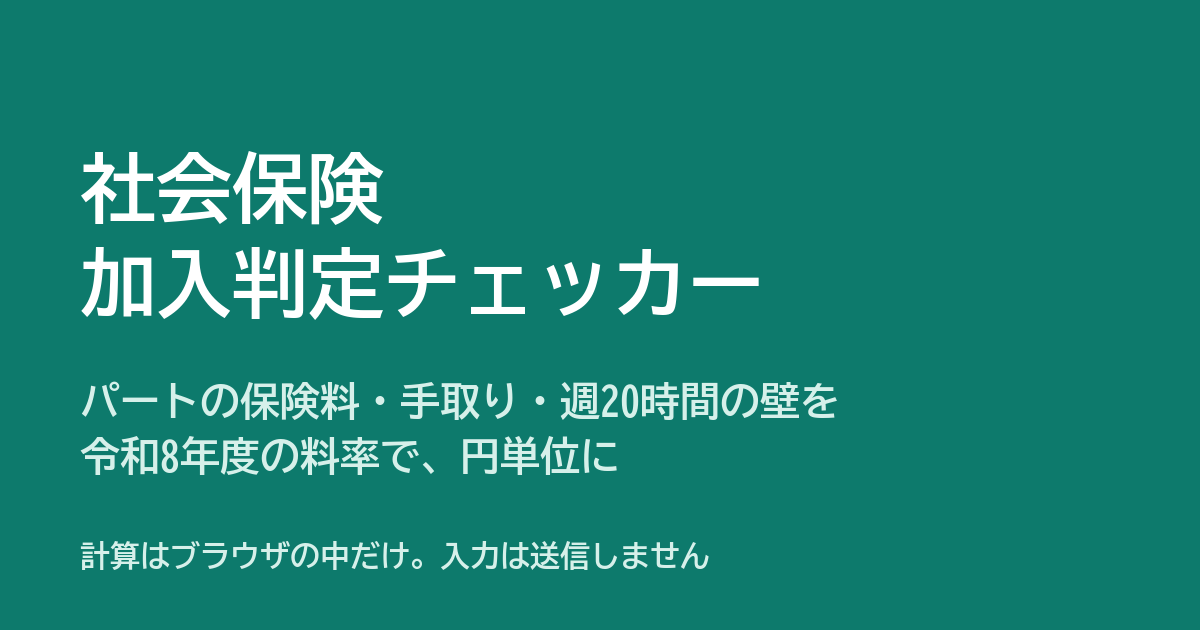
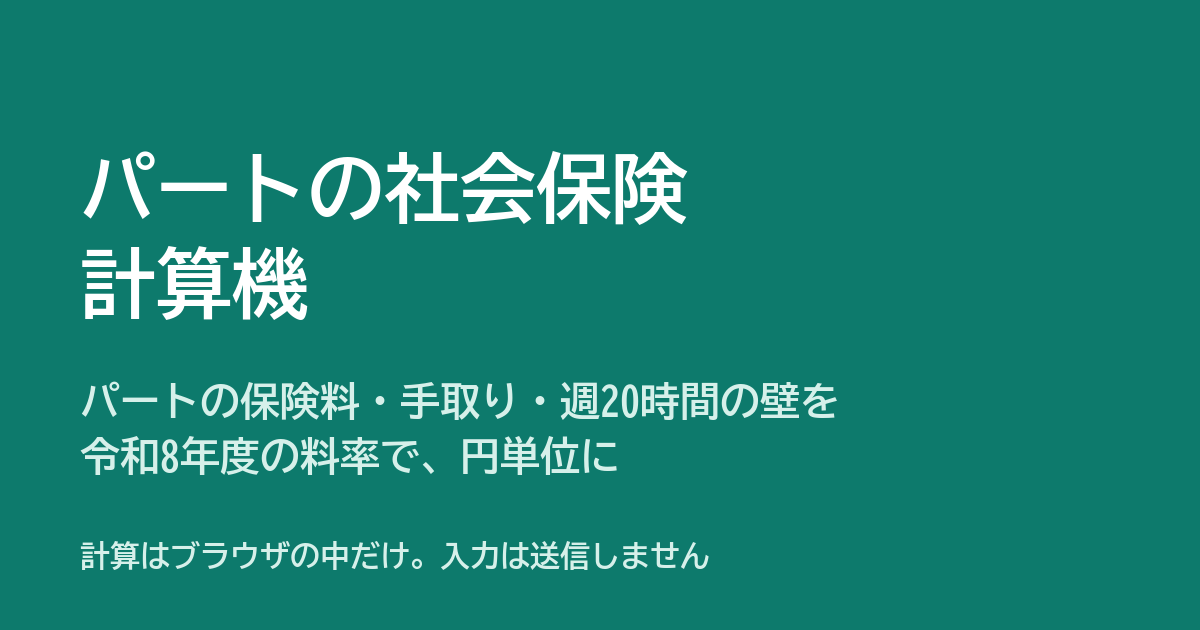
shaho-tekiyo: 年収別の手取り早見表・FAQ 4問を追加、サイト名を「パートの社会保険 計算機」に
Google の検索候補で多い「パート 年収 手取り 表」「130万の壁 月いくら」「交通費」
「ダブルワーク」「加入したくない」に受け皿を作る。サイト名も検索される言葉に寄せた。
影響範囲: dailyquarry-home と kabu-agari-ranking はリンク先の表示名だけ変更。

Changed region(s): [[0.0617, 0.2413, 0.5858, 0.3619], [0.0617, 0.3921, 0.6475, 0.5127]]

diff --git a/projects/shaho-tekiyo/templates/nenshu.html b/projects/shaho-tekiyo/templates/nenshu.html
@@ -1,0 +1,96 @@
+{% extends "base.html" %}
+{% block title %}パートの年収別 手取り早見表｜年収106万・130万・150万で社会保険に入るといくら残る？（{{ era }}）{% endblock %}
+{% block description %}パート・アルバイトの年収90万〜200万円の手取りを一覧に。勤務先の社会保険に入る場合と、扶養内で入らない場合の手取り（年額）を{{ era }}の料率で円単位に比べます。130万円の壁は月いくらかも。{% endblock %}
+{% block breadcrumb %}
+<nav class="crumbs" aria-label="パンくずリスト">
+  <a href="{{ base_url }}index.html">計算機</a>
+  <span>›</span>
+  <span aria-current="page">年収別の手取り</span>
+</nav>
+{% endblock %}
+{% block content %}
+{% set r130 = rows|selectattr("man", "equalto", 130)|first %}
+{% set r120 = rows|selectattr("man", "equalto", 120)|first %}
+<h1>パートの年収別 手取り早見表</h1>
+<p class="updated">{{ era }}の料率（協会けんぽ・東京）で計算</p>
+
+<p>
+  パート・アルバイトの年収ごとに、<strong>勤務先の社会保険に入った場合</strong>と、<strong>扶養内で入らない場合</strong>の手取り（1年分）を並べました。
+  たとえば年収120万円なら、社会保険に入ると手取りは約{{ "{:,}".format(r120.net_in) }}円、入らなければ約{{ "{:,}".format(r120.net_out) }}円です。
+</p>
+
+<div class="table-wrap">
+<table class="plain num">
+  <thead>
+    <tr><th>年収</th><th>月あたり</th><th>社会保険に入る<span class="sub">手取り（年）</span></th><th>扶養内で入らない<span class="sub">手取り（年）</span></th></tr>
+  </thead>
+  <tbody>
+    {% for r in rows %}
+    <tr{% if r.man in (106, 130) %} class="current"{% endif %}>
+      <th><a href="{{ base_url }}getsushu/{{ r.near }}man.html">{{ r.man }}万円</a></th>
+      <td>{{ "{:,}".format(r.monthly) }}円</td>
+      <td>{{ "{:,}".format(r.net_in) }}円</td>
+      <td>{% if r.net_out is not none %}{{ "{:,}".format(r.net_out) }}円{% else %}<span class="sub">扶養から外れる</span>{% endif %}</td>
+    </tr>
+    {% endfor %}
+  </tbody>
+</table>
+</div>
+<p class="hint">
+  賞与なし・毎月同じ額・東京の会社・39歳以下・扶養している家族0人の目安です。
+  「社会保険に入る」は健康保険・子ども・子育て支援金・厚生年金・雇用保険の保険料と所得税を引いた額、
+  「扶養内で入らない」は週20時間未満で働き、所得税だけが引かれる場合の額です。
+  所得税は毎月の天引き額×12（年末調整の前）で、<strong>住民税は含みません</strong>。年収を押すと、近い月収の内訳が見られます。
+</p>
+
+<h2 id="breakdown">引かれる額の内訳（社会保険に入る場合）</h2>
+<div class="table-wrap">
+<table class="plain num">
+  <thead><tr><th>年収</th><th>社会保険料</th><th>雇用保険料</th><th>所得税</th><th>手取り</th></tr></thead>
+  <tbody>
+    {% for r in rows %}
+    <tr><th>{{ r.man }}万円</th><td>{{ "{:,}".format(r.social) }}円</td><td>{{ "{:,}".format(r.koyo) }}円</td><td>{{ "{:,}".format(r.tax_in) }}円</td><td>{{ "{:,}".format(r.net_in) }}円</td></tr>
+    {% endfor %}
+  </tbody>
+</table>
+</div>
+
+<h2 id="kabe-106">年収106万円の壁は2026年10月に無くなる</h2>
+<p>
+  「106万円の壁」は、勤務先の社会保険に入る条件のひとつ「月の賃金8.8万円以上」を年収に直した額です。
+  この条件は<strong>2026年10月1日に無くなり</strong>、従業員51人以上の会社で週20時間以上働けば（学生でなく、2か月を超えて働く見込みがある場合）、年収にかかわらず加入します。
+  つまり、年収106万円未満に抑えても、週20時間以上なら社会保険料はかかります。
+  加入するかどうかを分けるのは、これからは年収ではなく<a href="{{ base_url }}kabe/index.html">週20時間</a>です。
+</p>
+
+<h2 id="kabe-130">年収130万円の壁は月いくら？</h2>
+<p>
+  「130万円の壁」は、配偶者や親の健康保険の扶養に入っていられるかの基準です。月に直すと<strong>108,334円</strong>（130万円÷12）で、
+  月にこれ以上になる見込みだと扶養から外れます。勤務先の社会保険に入らない場合は、自分で国民年金（月{{ "{:,}".format(kokumin) }}円）と
+  国民健康保険（額は市区町村で違う）を払うことになります。
+</p>
+<ul>
+  <li>通勤手当（交通費）も年収に含めて判定します（106万円の壁の「月8.8万円」では含めませんでした）。</li>
+  <li>2026年4月からは、労働条件通知書などで決まっている賃金から見込む年収で判定し、<strong>残業代は含めません</strong>。</li>
+  <li>19歳以上23歳未満の人（配偶者を除く）は、2025年10月から基準が<strong>年収150万円未満</strong>に上がっています。</li>
+</ul>
+<p class="hint">
+  出典: <a href="https://www.nenkin.go.jp/oshirase/taisetu/2025/202512/1225.html" rel="nofollow noopener" target="_blank">日本年金機構「労働契約内容による年間収入が基準額未満である場合の被扶養者の認定における年間収入の取り扱いについて」</a>、
+  <a href="https://www.nenkin.go.jp/oshirase/taisetu/2025/202508/0819.html" rel="nofollow noopener" target="_blank">日本年金機構「19歳以上23歳未満の方の被扶養者認定における年間収入要件が変わります」</a>。
+  健康保険組合によって扱いが違うことがあるので、扶養に入っている健康保険にも確かめてください。
+</p>
+
+<h2 id="loss">社会保険に入ると損？</h2>
+<p>
+  年収130万円の場合、社会保険に入ると1年で約{{ "{:,}".format(r130.social) }}円の保険料を払います。その分、
+  将来の年金（厚生年金）が上乗せされ、病気やけがで休んだときの傷病手当金、出産手当金が受けられるようになります。
+  目先の手取りだけで比べず、<a href="{{ base_url }}getsushu/{{ r130.near }}man.html">月収{{ r130.near }}万円のページ</a>で受けられるものの額も見てください。
+</p>
+
+<p class="hint">
+  料率の出典: <a href="{{ source.page }}" rel="nofollow noopener" target="_blank">{{ source.name }}「{{ source.title }}」</a>。計算のしかたは<a href="{{ base_url }}keisan.html">計算方法と出典</a>に。
+  自分の時給・時間・都道府県で計算するなら<a href="{{ base_url }}index.html">計算機</a>へ。
+</p>
+
+{% include "_cards.html" %}
+{% endblock %}

diff --git a/projects/shaho-tekiyo/templates/faq.html b/projects/shaho-tekiyo/templates/faq.html
@@ -1,6 +1,6 @@
 {% extends "base.html" %}
 {% block title %}パートの社会保険 よくある質問｜106万円の壁の撤廃・130万円の壁・週20時間{% endblock %}
-{% block description %}2026年10月に何が変わるか、106万円の壁と130万円の壁の違い、週20時間ちょうどでも入るか、学生や小さい会社はどうかなど、パートの社会保険でよくある質問に答えます。{% endblock %}
+{% block description %}2026年10月に何が変わるか、106万円の壁と130万円の壁の違い、交通費や残業代は含むか、ダブルワークは合計するか、週20時間ちょうどでも入るかなど、パートの社会保険でよくある質問に答えます。{% endblock %}
 {% block breadcrumb %}
 <nav class="crumbs" aria-label="パンくずリスト">
   <a href="{{ base_url }}index.html">計算機</a>
@@ -50,6 +50,37 @@
   別の制度・別の基準です。年収130万円以上になると、勤務先の従業員数などに関わらず被扶養者から外れ、
   自分で国民健康保険・国民年金などに加入する必要が出てきます。この基準自体は今回の改正の対象ではありません。
   両者を混同しないようご注意ください（詳しくは配偶者の勤務先の健康保険組合・協会けんぽにご確認ください）。
+</p>
+
+<h2 id="q-commute">交通費（通勤手当）や残業代は含める？</h2>
+<p>
+  壁によって違います。勤務先の社会保険に入るかどうかの「月8.8万円」（106万円の壁。2026年10月に撤廃）は、
+  <strong>通勤手当・残業代・賞与を含めない</strong>額で見ていました。
+  一方、扶養に入っていられるかの「130万円」は、<strong>通勤手当も含めた</strong>年収の見込みで判定します。
+  残業代は、2026年4月から、労働条件通知書などで決まっている賃金から見込む年収で判定する形になり、含めなくなりました。
+</p>
+<p class="hint">出典: <a href="https://www.nenkin.go.jp/oshirase/taisetu/2025/202512/1225.html" rel="nofollow noopener" target="_blank">日本年金機構「労働契約内容による年間収入が基準額未満である場合の被扶養者の認定における年間収入の取り扱いについて」</a></p>
+
+<h2 id="q-130-month">130万円の壁は月いくら？ 学生は？</h2>
+<p>
+  130万円÷12で、<strong>月108,334円</strong>以上になる見込みだと扶養から外れます。
+  ただし19歳以上23歳未満の人（配偶者を除く）は、2025年10月から基準が<strong>年収150万円未満</strong>（月125,000円）に上がっています。
+  年収ごとの手取りは<a href="{{ base_url }}nenshu.html">年収別の手取り早見表</a>にまとめています。
+</p>
+<p class="hint">出典: <a href="https://www.nenkin.go.jp/oshirase/taisetu/2025/202508/0819.html" rel="nofollow noopener" target="_blank">日本年金機構「19歳以上23歳未満の方の被扶養者認定における年間収入要件が変わります」</a></p>
+
+<h2 id="q-double">ダブルワーク（掛け持ち）は時間を合計する？</h2>
+<p>
+  合計しません。週20時間などの条件は、<strong>勤め先ごとに</strong>見ます。
+  たとえば2つの店で週15時間ずつ（計30時間）働いていても、どちらの店でも週20時間に届かなければ、どちらの社会保険にも入りません。
+  片方で条件を満たせば、その勤め先で加入します。両方で満たす場合は手続きが別にあるので、勤務先か年金事務所に確かめてください。
+</p>
+
+<h2 id="q-refuse">条件に当たっても、入らないことはできる？</h2>
+<p>
+  できません。条件（週20時間以上・会社の人数など）を満たせば、本人の希望にかかわらず加入します。
+  入りたくない場合は、週の所定労働時間を20時間未満にするなど、条件そのものが変わる働き方にするしかありません。
+  週19時間と20時間で手取りがどう変わるかは<a href="{{ base_url }}kabe/index.html">週20時間の壁</a>で見られます。
 </p>
 
 <h2 id="q-student">学生は社会保険に入らなくていい？</h2>

diff --git a/projects/shaho-tekiyo/templates/base.html b/projects/shaho-tekiyo/templates/base.html
@@ -5,10 +5,10 @@
 <meta name="viewport" content="width=device-width, initial-scale=1.0">
 <meta name="color-scheme" content="light dark">
 <meta name="google-site-verification" content="{{ SEARCH_CONSOLE_TOKEN }}" />
-<title>{% block title %}社会保険 加入判定チェッカー{% endblock %}</title>
+<title>{% block title %}パートの社会保険 計算{% endblock %}</title>
 <meta name="description" content="{% block description %}パート・アルバイトの社会保険（健康保険・厚生年金）の加入対象かどうかを、週の労働時間・月収・勤務先の人数から判定します。2026年10月からの適用拡大に対応。{% endblock %}">
 <meta property="og:type" content="website">
-<meta property="og:site_name" content="社会保険 加入判定チェッカー">
+<meta property="og:site_name" content="パートの社会保険 計算機">
 <meta property="og:title" content="{{ self.title() }}">
 <meta property="og:description" content="{{ self.description() }}">
 <meta property="og:url" content="{{ canonical }}">
@@ -368,7 +368,7 @@
 <script async src="https://pagead2.googlesyndication.com/pagead/js/adsbygoogle.js?client={{ ADSENSE_CLIENT }}" crossorigin="anonymous"></script>
 {% endif %}
 <script type="application/ld+json">
-{"@context":"https://schema.org","@type":"WebSite","name":"社会保険 加入判定チェッカー","url":"{{ SITE_URL }}/","inLanguage":"ja"}
+{"@context":"https://schema.org","@type":"WebSite","name":"パートの社会保険 計算機","url":"{{ SITE_URL }}/","inLanguage":"ja"}
 </script>
 {% block structured_data %}{% endblock %}
 <!-- Cloudflare Web Analytics --><script type='module' src='https://static.cloudflareinsights.com/beacon.min.js' data-cf-beacon='{"token": "c8d25daf2f614e8c8b4e20694bacc1f8"}'></script><!-- End Cloudflare Web Analytics -->
@@ -377,10 +377,11 @@
 <a class="skip-link" href="#main">本文へスキップ</a>
 <header class="site-header">
   <div class="inner">
-    <a class="logo" href="{{ base_url }}index.html">社会保険 加入判定チェッカー</a>
+    <a class="logo" href="{{ base_url }}index.html">パートの社会保険 計算機</a>
     <nav>
       <a href="{{ base_url }}index.html">計算機</a>
       <a href="{{ base_url }}getsushu/index.html">月収別の保険料</a>
+      <a href="{{ base_url }}nenshu.html">年収別の手取り</a>
       <a href="{{ base_url }}kabe/index.html">週20時間の壁</a>
       <a href="{{ base_url }}year/index.html">年次の変化</a>
       <a href="{{ base_url }}faq.html">よくある質問</a>
@@ -403,8 +404,9 @@
 <footer>
   <div class="footer-group">
     <strong>使う</strong>
-    <a href="{{ base_url }}index.html">加入判定チェッカー</a>
+    <a href="{{ base_url }}index.html">計算機</a>
     <a href="{{ base_url }}getsushu/index.html">月収別の保険料</a>
+    <a href="{{ base_url }}nenshu.html">年収別の手取り</a>
     <a href="{{ base_url }}kabe/index.html">週20時間の壁</a>
     <a href="{{ base_url }}year/index.html">年次の変化を見る</a>
   </div>

diff --git a/projects/shaho-tekiyo/templates/_cards.html b/projects/shaho-tekiyo/templates/_cards.html
@@ -9,6 +9,10 @@
     <svg viewBox="0 0 40 40" aria-hidden="true"><rect class="ico-bg" width="40" height="40" rx="10"/><circle class="ico-fg" cx="20" cy="20" r="11"/><path class="ico-fg" d="M15 14l5 7 5-7M20 21v8M15.5 22h9M15.5 25.5h9"/></svg>
     <div><strong>月収別の保険料</strong><span>8万〜25万円の早見表</span></div>
   </a>
+  <a class="card-link" href="{{ base_url }}nenshu.html">
+    <svg viewBox="0 0 40 40" aria-hidden="true"><rect class="ico-bg" width="40" height="40" rx="10"/><rect class="ico-fg" x="10" y="10" width="20" height="20" rx="3"/><path class="ico-fg" d="M10 16h20M10 22h20M17 10v20"/></svg>
+    <div><strong>年収別の手取り</strong><span>90万〜200万円の一覧表</span></div>
+  </a>
   <a class="card-link" href="{{ base_url }}kabe/index.html">
     <svg viewBox="0 0 40 40" aria-hidden="true"><rect class="ico-bg" width="40" height="40" rx="10"/><circle class="ico-fg" cx="20" cy="20" r="11"/><path class="ico-fg" d="M20 13v7l5 3"/></svg>
     <div><strong>週20時間の壁</strong><span>手取りが減る分と戻る時間</span></div>

diff --git a/projects/shaho-tekiyo/templates/404.html b/projects/shaho-tekiyo/templates/404.html
@@ -1,11 +1,11 @@
 {% extends "base.html" %}
-{% block title %}ページが見つかりません｜社会保険 加入判定チェッカー{% endblock %}
+{% block title %}ページが見つかりません｜パートの社会保険 計算機{% endblock %}
 {% block description %}お探しのページは見つかりませんでした。{% endblock %}
 {% block content %}
 <h1>ページが見つかりません</h1>
 <p>お探しのページは移動したか、もともと存在しません。</p>
 <ul>
-  <li><a href="{{ base_url }}index.html">加入判定チェッカー</a></li>
+  <li><a href="{{ base_url }}index.html">計算機</a></li>
   <li><a href="{{ base_url }}year/index.html">年次の変化を見る</a></li>
   <li><a href="{{ base_url }}faq.html">よくある質問</a></li>
 </ul>

diff --git a/projects/shaho-tekiyo/templates/keisan.html b/projects/shaho-tekiyo/templates/keisan.html
@@ -1,6 +1,6 @@
 {% extends "base.html" %}
-{% block title %}計算方法と出典・更新履歴｜社会保険 加入判定チェッカー{% endblock %}
-{% block description %}社会保険 加入判定チェッカーが、どの料率・計算式・端数処理で保険料や手取りを出しているか。出典と更新履歴。{% endblock %}
+{% block title %}計算方法と出典・更新履歴｜パートの社会保険 計算機{% endblock %}
+{% block description %}パートの社会保険 計算機が、どの料率・計算式・端数処理で保険料や手取りを出しているか。出典と更新履歴。{% endblock %}
 {% block breadcrumb %}
 <nav class="crumbs" aria-label="パンくずリスト">
   <a href="{{ base_url }}index.html">計算機</a>

diff --git a/projects/shaho-tekiyo/templates/amount.html b/projects/shaho-tekiyo/templates/amount.html
@@ -102,7 +102,7 @@
 <p>
   2026年10月からは月収の条件（8.8万円以上）が無くなり、週20時間以上働いていて、勤務先が51人以上の会社で、学生でなければ、
   月収にかかわらず加入の対象になります（2027年10月からは36人以上の会社に広がります）。
-  自分が当たるかは<a href="{{ base_url }}index.html">加入判定チェッカー</a>で確かめられます。
+  自分が当たるかは<a href="{{ base_url }}index.html">計算機</a>で確かめられます。
 </p>
 <p class="hint">
   企業規模要件を満たさない会社で任意に加入する場合などには、勤務先が本人負担の一部を持つと国の支援を受けられる

diff --git a/projects/shaho-tekiyo/templates/calculator.html b/projects/shaho-tekiyo/templates/calculator.html
@@ -1,5 +1,5 @@
 {% extends "base.html" %}
-{% block title %}パートの社会保険 計算｜加入判定・保険料・手取り（2026年10月の改正に対応）{% endblock %}
+{% block title %}パートの社会保険 計算シミュレーション｜加入条件・保険料・手取り（2026年10月の改正に対応）{% endblock %}
 {% block description %}パート・アルバイトの社会保険を計算します。週の時間・時給か月収・勤務先の人数で、加入の対象か、保険料と手取りはいくらかを{{ era }}の料率で円単位に。106万円の壁の撤廃（2026年10月）と週20時間の壁にも対応。{% endblock %}
 {% block main_class %}wide{% endblock %}
 {% block content %}

diff --git a/projects/shaho-tekiyo/templates/about.html b/projects/shaho-tekiyo/templates/about.html
@@ -1,6 +1,6 @@
 {% extends "base.html" %}
-{% block title %}このサイトについて｜社会保険 加入判定チェッカー{% endblock %}
-{% block description %}社会保険 加入判定チェッカーが何を計算し、何を計算していないか。判定の根拠と限界をまとめています。{% endblock %}
+{% block title %}このサイトについて｜パートの社会保険 計算機{% endblock %}
+{% block description %}パートの社会保険 計算機が何を計算し、何を計算していないか。判定の根拠と限界をまとめています。{% endblock %}
 {% block breadcrumb %}
 <nav class="crumbs" aria-label="パンくずリスト">
   <a href="{{ base_url }}index.html">計算機</a>

diff --git a/projects/shaho-tekiyo/templates/operator.html b/projects/shaho-tekiyo/templates/operator.html
@@ -1,12 +1,12 @@
 {% extends "base.html" %}
-{% block title %}運営者情報｜社会保険 加入判定チェッカー{% endblock %}
-{% block description %}社会保険 加入判定チェッカーの運営者・運営方針・連絡先。{% endblock %}
+{% block title %}運営者情報｜パートの社会保険 計算機{% endblock %}
+{% block description %}パートの社会保険 計算機の運営者・運営方針・連絡先。{% endblock %}
 {% block content %}
 <h1>運営者情報</h1>
 
 <dl>
   <dt>サイト名</dt>
-  <dd>社会保険 加入判定チェッカー</dd>
+  <dd>パートの社会保険 計算機</dd>
 
   <dt>運営者</dt>
   <dd>{{ OWNER }}（個人による運営）</dd>

diff --git a/projects/shaho-tekiyo/templates/year.html b/projects/shaho-tekiyo/templates/year.html
@@ -1,5 +1,5 @@
 {% extends "base.html" %}
-{% block title %}{{ regime.effective_from.year }}年{{ regime.effective_from.month }}月〜：{{ headline }}｜社会保険 加入判定チェッカー{% endblock %}
+{% block title %}{{ regime.effective_from.year }}年{{ regime.effective_from.month }}月〜：{{ headline }}｜パートの社会保険 計算機{% endblock %}
 {% block description %}{{ regime.label }}。{{ note.split('。')[0] }}。自分が対象になるかは計算機で確かめられます。{% endblock %}
 {% block breadcrumb %}
 <nav class="crumbs" aria-label="パンくずリスト">

diff --git a/projects/shaho-tekiyo/templates/contact.html b/projects/shaho-tekiyo/templates/contact.html
@@ -1,6 +1,6 @@
 {% extends "base.html" %}
-{% block title %}お問い合わせ｜社会保険 加入判定チェッカー{% endblock %}
-{% block description %}社会保険 加入判定チェッカーへのご連絡先。メールで受け付けています。{% endblock %}
+{% block title %}お問い合わせ｜パートの社会保険 計算機{% endblock %}
+{% block description %}パートの社会保険 計算機へのご連絡先。メールで受け付けています。{% endblock %}
 {% block content %}
 <h1>お問い合わせ</h1>
 
